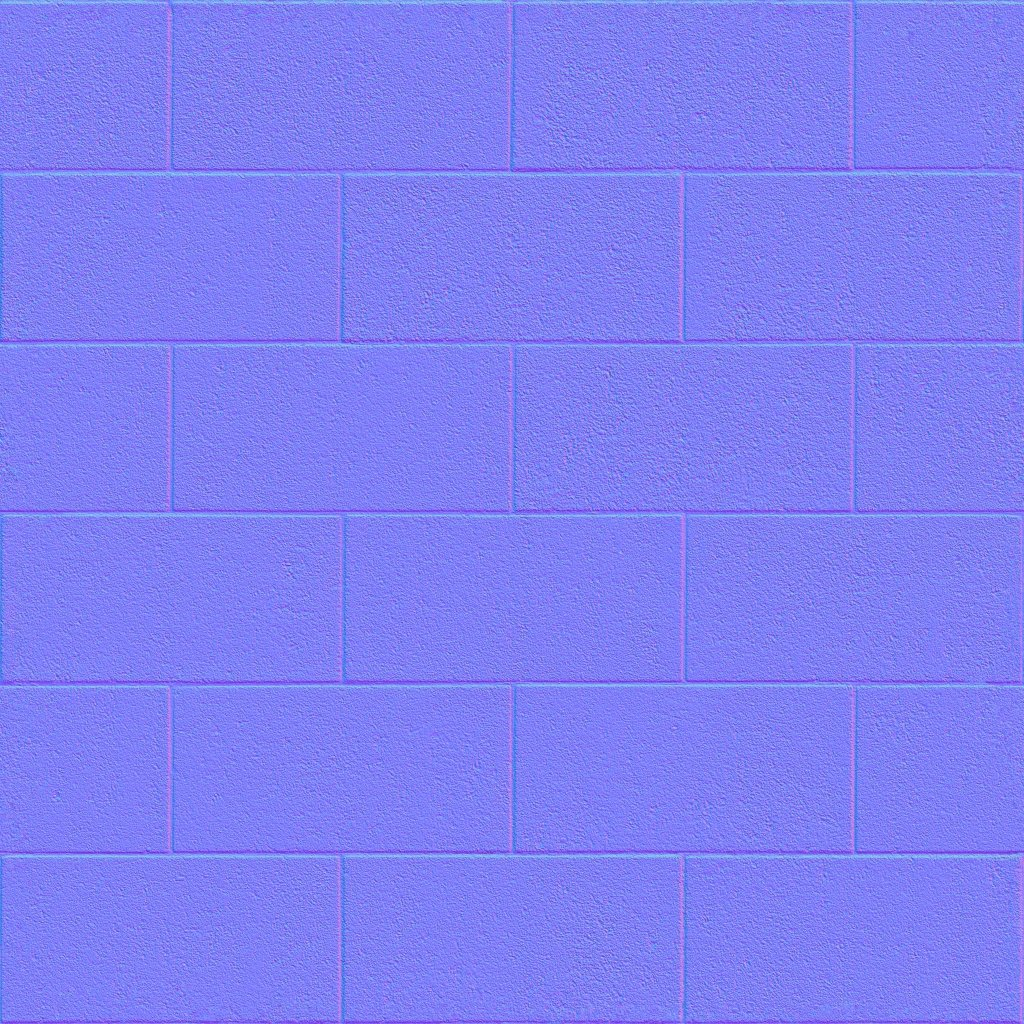
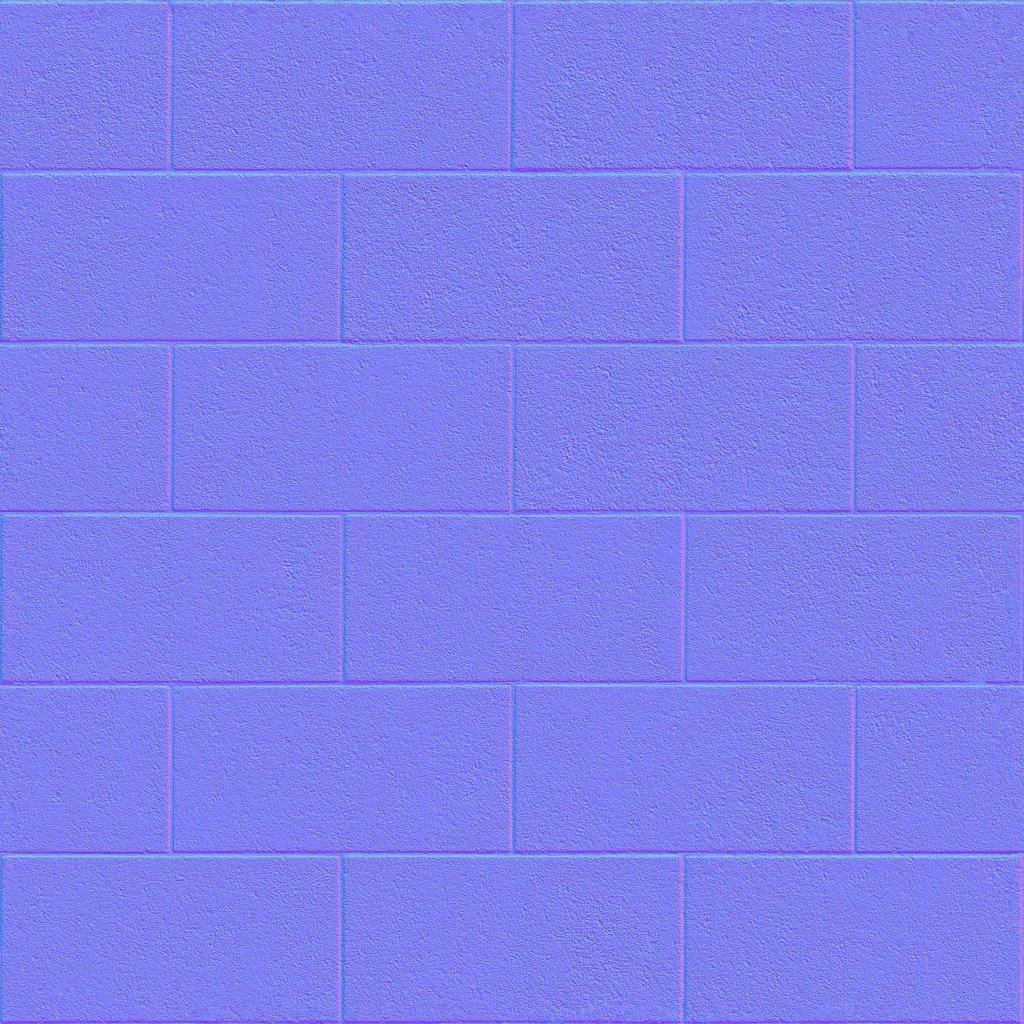
showroom: in the dark hall only the stand's ring stays lit; the entrance lamps stay on
- The glow on the plinth goes out with the hall; the ring around it stays
- The two lamps by the entrance stay on: theirs is the light on the pavement
- Lighter pavement normal map

Claude-Session: https://claude.ai/code/session_01G6XUyTdgQSUV17GKFKgsnk

diff --git a/app/showroom/scene.ts b/app/showroom/scene.ts
@@ -430,7 +430,8 @@ export function createShowroom(canvas: HTMLCanvasElement, opts: Opts): SceneHand
   add(new THREE.HemisphereLight('#ffe8d2', '#101318', 0.16))
   for (const [x, z] of [[-5, -4], [5, -4], [-5, -13], [5, -13], [0, -20]]) {
     const l = new THREE.PointLight('#ffcf98', 5, 11, 1.8); l.position.set(x, H - 0.4, z); scene.add(l)
-    power(depthDelay(z), k => { l.intensity = 5 * k })
+    // the two by the entrance stay on: theirs is the light on the pavement outside
+    if (z !== -4) power(depthDelay(z), k => { l.intensity = 5 * k })
   }
   // night sky light from straight in front: it lights the facade evenly and
   // falls on neither inner wall more than the other
@@ -460,11 +461,11 @@ export function createShowroom(canvas: HTMLCanvasElement, opts: Opts): SceneHand
   const plinth = new THREE.Mesh(new THREE.CylinderGeometry(PR, PR + 0.06, 0.08, 160), mats.gloss)
   plinth.position.set(STAND.x, 0.04, STAND.z); scene.add(plinth)
   const ringMat = new THREE.MeshBasicMaterial({ color: new THREE.Color(2.2, 1.95, 1.6), toneMapped: false })
-  // the stand's ring stays lit when the hall is dark: the one light left on
+  // the stand's ring stays lit when the hall is dark (its glow on the plinth does not)
   const lightRing = new THREE.Mesh(new THREE.TorusGeometry(PR + 0.03, 0.014, 8, 256), ringMat)
   lightRing.rotation.x = Math.PI / 2; lightRing.position.set(STAND.x, 0.082, STAND.z); scene.add(lightRing)
   glow('shadow', PR * 2.4, PR * 2.4, STAND.x, STAND.z, 0.003, 0.45)
-  glow('light', PR * 2.6, PR * 2.6, STAND.x, STAND.z, 0.084, 0.42, undefined, true)
+  glow('light', PR * 2.6, PR * 2.6, STAND.x, STAND.z, 0.084, 0.42)   // the light on the plinth goes out with the hall
 
   // ─── Back: glass offices with frosted bands ───
   const officeZ = FRONT - D + 4
